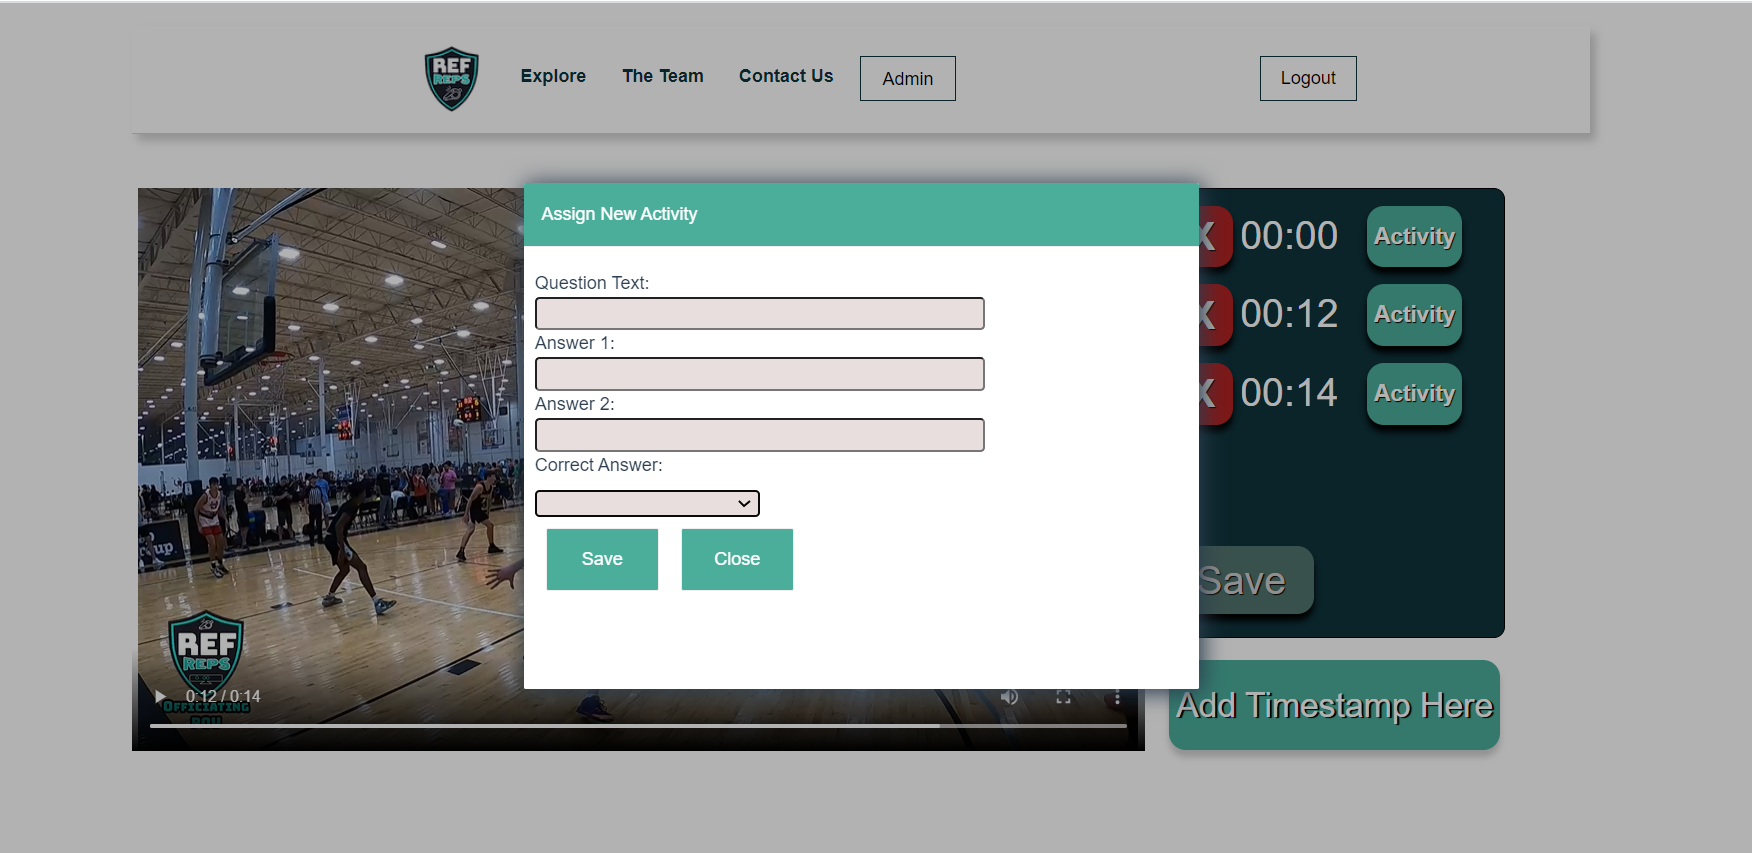
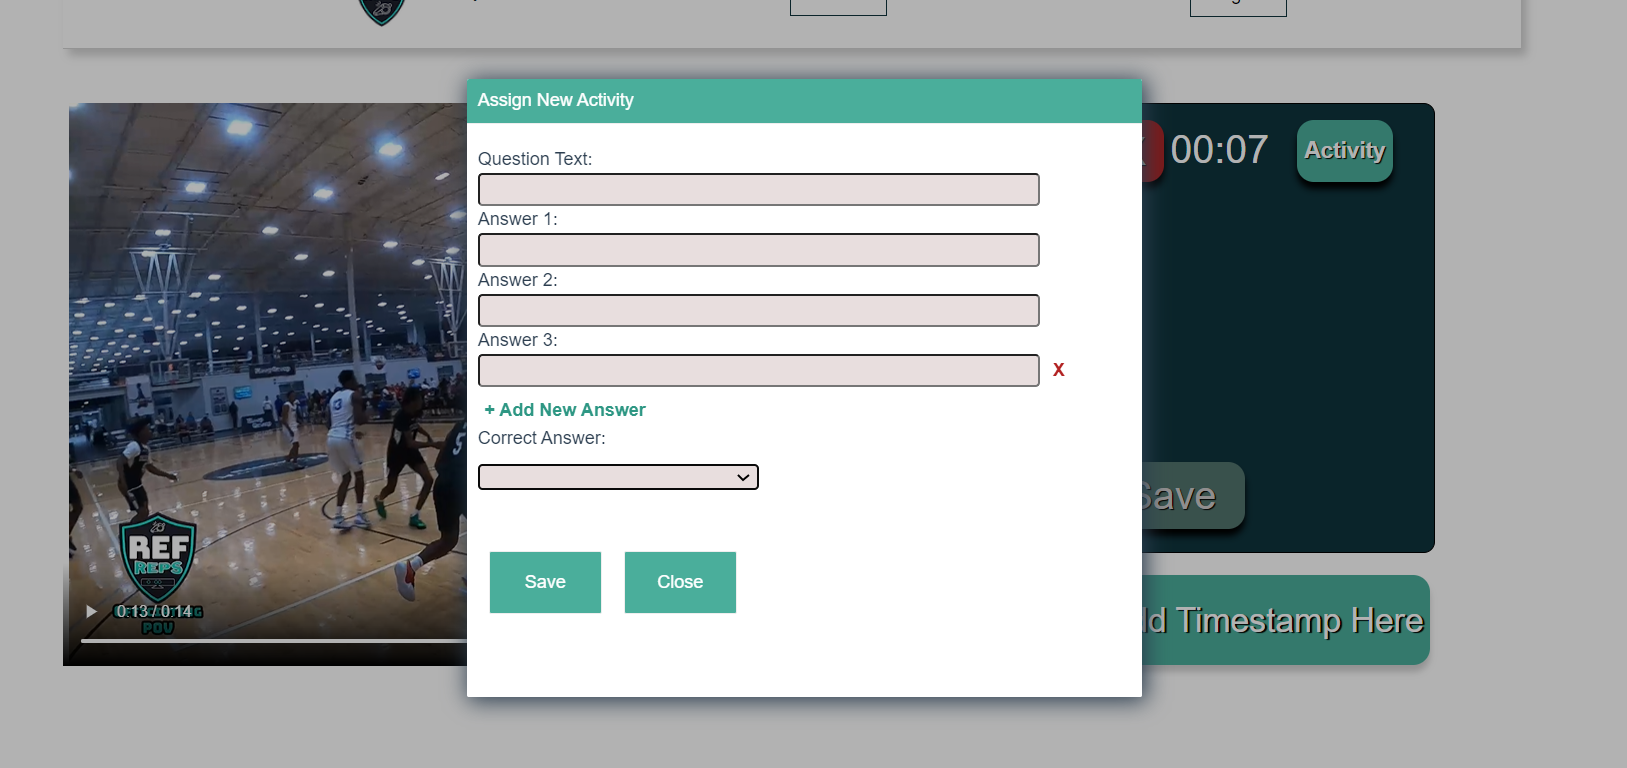
update User.md

diff --git a/Documentation/User.md b/Documentation/User.md
@@ -4,7 +4,7 @@ This is the documentation that guides a user on how to use the Ref-Reps Right ca
 ## Navigation
 - Currently the three links: 'Explore', 'The Team', and 'Contact Us' on the navigation bar at the top of the application is for visual purposes only. 
 - For when a student is logged in, clicking the RefReps logo at the top left will redirect them back to the lesson selection page where they can take another quiz. 
-<img src="Assets/home_page.png" width="600">
+<img src="Assets/navLinks.png" width="600">
 
 ## Register for the Website
 <img src="Assets/register_screen.png" width="600">
@@ -14,7 +14,7 @@ This is the documentation that guides a user on how to use the Ref-Reps Right ca
 - User can also register as a student, instructor, or admin.
 - Student role: can take the quizzes.
 - Admin role: allows you to upload and delete videos, and add questions at specific timestamps to each video.
-- Instructor role: can alter and add their own questions to timestamps for each video added by the admin.
+- Instructor role: can create classes and add students to their classes. Can also add/remove videos to each class for their students to take. They also can alter and add their own questions to timestamps for each video added by the admin.
 - Once all boxes are filled, the user hits the register button and if successful, it will direct them back to the Login Screen for them to now login.
 
 ## Login to The Website
@@ -27,7 +27,7 @@ This is the documentation that guides a user on how to use the Ref-Reps Right ca
 # Upon Logging In
 ## Admin Logged In
 
-<img src="Assets/admin_per.png" width="600">
+<img src="Assets/admin_per2.png" width="600">
 
 - If an admin logs in, they will have three options to choose from. They could either upload a lesson video, delete the lesson video, or assign questions/activities at specific timestamps to a lesson.
 - The admin can click the Admin button at the top of the screen to go back to the main admin page after doing any of the three actions.
@@ -65,22 +65,57 @@ This is the documentation that guides a user on how to use the Ref-Reps Right ca
 - User would click the "Add Timestamp Here" button to save a timestamp where that timestamp would then appear in a menu above the big button with an additional option to add an activity.
 - The user cannot save/upload the timestamp until each timestamp has a filled out question attached to it.
 
+<img src="Assets/questionTypeOptions.png" width="600">
+
+- The User then clicks on "Activity", and would be able to insert a question and possible answer choices, including selecting the correct answer, in the text fields provided before saving. 
+- The User has the option of creating a multiple choice, short answer, or Eye Tracking question.
+
 <img src="Assets/create_lesson.png" width="600">
 
-- The User then clicks on "Add Activity", and would be able to insert a question and possible answer choices, including selecting the correct answer, in the text fields provided before saving. 
+- The short answer and multiple choice questions are how they sound: if a user chooses the short answer, they just add one answer choice, and if a user chooses the multiple choice, they must add a minimum of two answer choices and max of four.
+
+<img src="Assets/eyeTrackingQuestion.png" width="600">
+
+- For the eye-tracking question, you can write the question, and then choose the quadrant of the screen the student should be looking at. 
 - On the "Assign New Activity" popup, the user must click the save button if they wish to attach the question to the timestamp. Clicking close would not add the question to the timestamp, and the admin would need to add the question again.
 - Once finished adding questions and timestamps, the User can click the "Save" button at the bottom left corner of the timestamps and activities list which will upload the timestamps and questions and redirect the user back to the page where they can select lessons to add timestamps to.
 - If the user is done editing lessons, they can click the Admin button to go back to the main admin page.
 
 
 ## Instructor Logged In
+<img src="Assets/instructorHomePage.png" width="600">
 
-<img src="Assets/instructorPage.png" width="600">
-
-- When an instructor logs in, their only role is to edit the current lessons already uploaded by the admins. 
+- When an instructor logs in, their middle button on the instructor page is to edit the current lessons already uploaded by the admins. 
 - Clicking on a lesson would send them to the exact same assign timestamps and questions to the lesson page as the admin.
 - They can add questions to timestamps and the page operates identically to the admin's assign timestamps and questions page that has been described in detail above in the admin instructions.
-- The instructor can just click the Timestamp Videos button at the top of the screen to go back to the page where they can select videos to upload questions/timestamps to.
+- The instructor can just click the Instructor Page button at the top of the screen to go back to their home page where they can select what they want to do.
+
+<img src="Assets/CreateClass.png" width="600">
+
+- When the instructor chooses the Create Classroom Page button, they are directed to the Classroom Creation page.
+- The Instructor must enter a class name.
+- Then, they can select students from the left column of students to add to their class. 
+- Any students they click on will show up in the column to the right of Selected Students. 
+- When the instructor is done adding students, they must click the Create Class button to officially create the class. 
+
+<img src="Assets/AddVideosToClass.png" width="600">
+
+- After creating a class, they are back on the instructor page, and then the instructor can click the Update Class option. 
+- On this page, they can see all of the classes they have created, along with the number of students and videos in the class.
+- The instructor can add/remove students to and from the class, and they can also add/remove videos to the class. 
+
+<img src="Assets/AddStudentsToClass.png" width="600">
+
+- Instructor can select the Add/Remove Students button.
+- The instructor sees all available students, and can either click a student from the top section to remove from the class or a student from the bottom section to add to the class.
+
+<img src="Assets/AddVideosToInstructorClass.png" width="600">
+
+- Instructor can select the Add/Remove Lessons button.
+- Here they can see all available videos/lessons they can add to the class.
+- Right now there are zero videos in the class, to add one, the instructor can just click a video from the bottom section.
+- To remove a video from the class, the instructor must select a video from the top section.
+- All students can only take video quizzes that are assigned to the classes they are in.
 
 ## Student Logged In
 
@@ -88,12 +123,18 @@ This is the documentation that guides a user on how to use the Ref-Reps Right ca
 <img src="Assets/lessonSelection.png" width="600">
 
 - There are a group of lessons available at the homepage to select from.
+- A new student may not have any lessons to choose from, because they may not be added to a class by an intructor yet.
+- Students can only take lessons that are assigned to the classes they are in. If they are in multiple classes and the classes have the same video assigned, the student only sees that video once. 
 - Select a lesson by clicking on a lesson object.
 
 ## Completing a Lesson
+<img src="Assets/webcamPermission.png" width="600">
+
+- After selecting a lesson, the user is asked if they want to use their camera for eye-tracking questions. 
+
 <img src="Assets/video_start.png" width="600">
 
-- After selecting a lesson, the user is shown a video file.
+- If they select decline, the user is shown a video file.
 - To start a lesson the user must play the video by pressing the play button.
 - The current time of the video is displayed beneath the video player along with the length of the video.
 
@@ -103,6 +144,23 @@ This is the documentation that guides a user on how to use the Ref-Reps Right ca
 - During a lesson, there will be a number of questions that appear while the user is watching the video file.
 - The user should select what they believe is the right referee call.
 - After selecting an answer, the video should automatically resume and play until the next question pops up or the video ends.
+
+<img src="Assets/noWebcamQuestion.png" width="600">
+
+- One type of question that may pop up is this one, where it asks the student a question and the student must select the quadrant of the video screen where they think the answer to the video is/occurred. 
+
+<img src="Assets/calibrationPage.png" width="600">
+
+- If the student selects accept to use their webcam, they are sent to the eye-tracking calibratiom page.
+- This page must be completed only once per login session.
+- The student must wait around 5-10 seconds for the red dot to show up on their screen. Once it displays, the student must click all five buttons five teams each until each one is red. 
+- After that, select the button in the middle that shows up.
+- The student is sent back to the video, and they can press play and start the quiz.
+- Questions can show up at any timestamps. 
+
+<img src="Assets/eyeTrackingQuestion2.png" width="600">
+
+- An eye-tracking quesiton may show up, and the student must look at the quadrant of the screen they think the answer is in.
 
 ## Lesson Results
 <img src="Assets/endResults.png" width="600">
